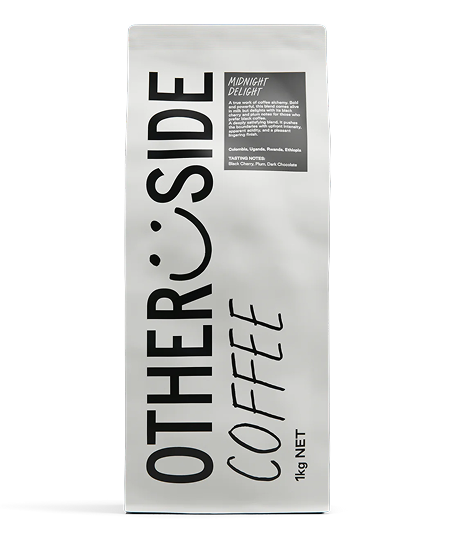
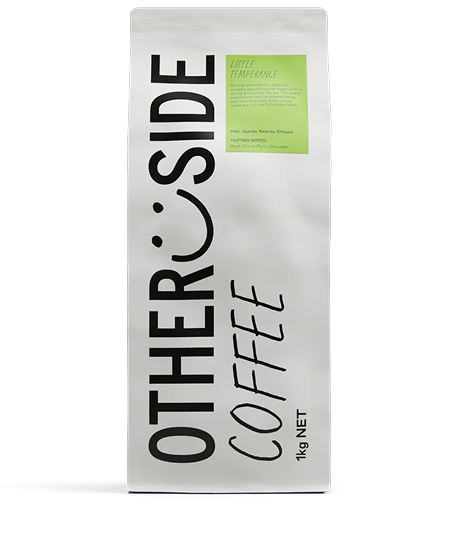
feat: added item 2 page

diff --git a/Pages/Product_pages/Item2.html b/Pages/Product_pages/Item2.html
@@ -1,22 +1,109 @@
 <!DOCTYPE html>
 <html lang="en">
-<head>
+<head class = "head">
     <meta charset="UTF-8">
     <meta name="viewport" content="width=device-width, initial-scale=1.0">
     <title>Document</title>
+
+    <link rel="stylesheet" href="../../Css_stylesheet/style_page.css">
+    <link rel="stylesheet" href="../../Css_stylesheet/navbar.css">
+    <link rel="stylesheet" href = "../../Css_stylesheet/footer.css">
+    <link rel="stylesheet" href = "../../Css_stylesheet/image.css">
+    <link rel="stylesheet" href = "../../Css_stylesheet/layout.css">
+    <link rel="stylesheet" href = "../../Css_stylesheet/fonts.css">
+    <link rel="stylesheet" href = "../../Css_stylesheet/buttons.css">
+    <link rel="stylesheet" href = "../../Css_stylesheet/Dropdowns.css">
+     <link rel="stylesheet" href = "../../Css_stylesheet/blocks.css">
+
+   <!-- <link rel="stylesheet" href="Css_stylesheet\style_page.css.css"> -->
 </head>
-<body>
+<body class="body" style="background-color: #f8eac9;">
     <nav class="navbar">
         <div class="logo">🙂TherSide</div>
         <div class="nav-container">
             <ul class="nav-links">
-                <li><a href="index.html">Home</a></li>
-                <li><a href="">Shop</a></li>
+                <li><a href="../Home/index.html">Home</a></li>
+                <li><a href="../Products_list/shop.html">Shop</a></li>
                 <li><a href="#">About us</a></li>
                 <li><a href="#">Subscription</a></li>
             </ul>
         </div>
     </nav> 
+
+    <div class = "sample-product">
+        <div class ="split-sample">
+            <div class="product-image">
+                <img src="Images/item2.png" alt="Midnight Delight">
+            </div>
+        </div>
+        <div class="split-sample">
+            <div class="product-details">
+                <h2>Midnight Delight <br> $20</h2>
+              
+                <div class="quantity-selector">
+                    <button class="qty-btn">-</button>
+                    <div>1</div>
+                    <button class="qty-btn">+</button>
+                </div>
+                <script src="/Css_stylesheet/testjs.js"></script>
+                <div class="option_dropdown">
+                    <label onclick="toggleDropdown()">Size</label>
+                    <select id="dropdownOptions">
+                        <option>200g</option>
+                        <option>1kg</option>
+                    </select>
+                </div>
+              
+                <div class="option_dropdown">
+                    <label>Grind</label>
+                    <select>
+                        <option>Whole Beans</option>
+                        <option>Espresso</option>
+                        <option>French Press</option>
+                        <option>V60</option>
+                        <option>Filter</option>
+                    </select>
+                </div>
+              
+                <div class="add-to-cart">
+                    <button class="cart-btn">Add to cart</button>
+                </div>
+              </div>
+        </div>
+    </div>
+
+    <div class="split-block">
+        <div class="block-side">
+            <div class = "block_1">
+                <p>A true work of coffee alchemy. Bold and powerful, this blend comes alive in milk but delights with its black cherry and plum notes for those who prefer black coffee. A deeply satisfying blend, it pushes the boundaries with upfront intensity, apparent acidity, and a pleasant lingering finish.</p>
+            </div>
+        </div>
+        <div class = "block-side">
+            <div class="block_2">
+                <div class="info-tag"><p>Origin: Uganda, Rwanda, Ethiopia</p></div>
+            </div>
+
+            <div class="block_2">
+                <div class="info-tag"><p>Taste: Black Cherry, Plum, Chocolate</p></div>
+            </div>
+        </div>
+    </div>
     
+    <footer>
+        <button class="signup-btn">Sign up</button>
+        <div class="footer-links">
+            <div>
+                <p>Instagram</p>
+                <p>Contact</p>
+                <p>Location</p>
+            </div>
+
+            <div>
+                <p>Account</p>
+                <p>Terms</p>
+            </div>
+        </div>
+    </footer>
+   
 </body>
 </html>

diff --git a/Pages/Product_pages/Item1.html b/Pages/Product_pages/Item1.html
@@ -38,7 +38,7 @@
         </div>
         <div class="split-sample">
             <div class="product-details">
-                <h2>Midnight Delight <br> $20</h2>
+                <h2>Little Temperance <br> $18</h2>
               
                 <div class="quantity-selector">
                     <button class="qty-btn">-</button>
@@ -75,7 +75,7 @@
     <div class="split-block">
         <div class="block-side">
             <div class = "block_1">
-                <p>A true work of coffee alchemy. Bold and powerful, this blend comes alive in milk but delights with its black cherry and plum notes for those who prefer black coffee. A deeply satisfying blend, it pushes the boundaries with upfront intensity, apparent acidity, and a pleasant lingering finish.</p>
+                <p>Our signature blend is a bold and complex experience that begins with a strong and punchy flavour. The acidity is prominent and complemented by dark fruit notes and dusky cocoa, creating a rich and full-bodied taste.</p>
             </div>
         </div>
         <div class = "block-side">

diff --git a/Css_stylesheet/fonts.css b/Css_stylesheet/fonts.css
@@ -96,6 +96,11 @@
     color: red;
 }
 
+/* product page */
+.block_1 p {
+  text-align: left;
+}
+
 /* cart page */
 .desc p {
   margin: 0;
